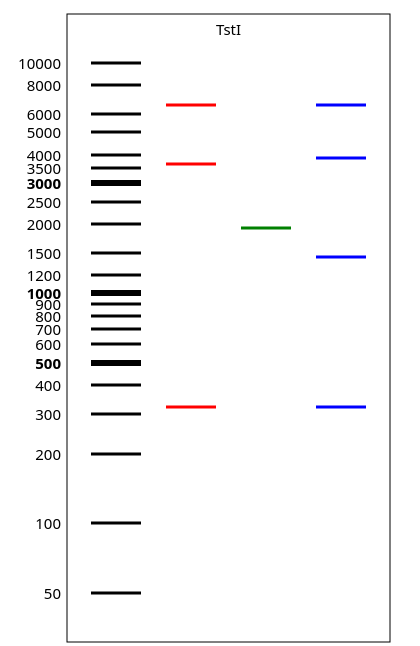
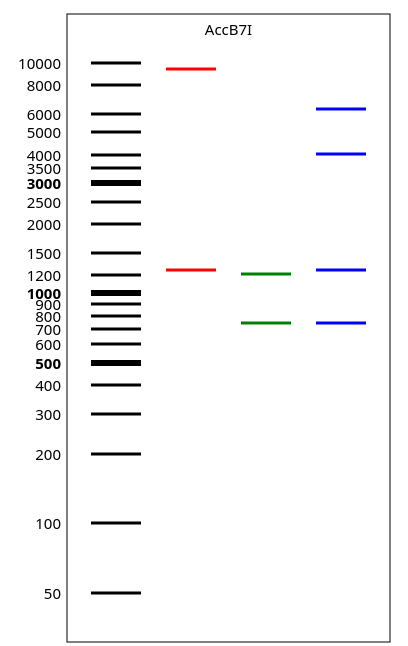
Use the first enzyme that the example sequences give with default settings as gel picture

diff --git a/index.html b/index.html
@@ -164,7 +164,7 @@
 		</ol>
 		<a class="reference internal image-reference" href="docs/images/Warning.png"><img alt="Submit your DiffDigest" src="docs/images/Warning.png" style="width: 800px;" /></a>
 		<ol class="arabic simple" start="6">
-			<li><p>Your results will be displayed as mock gels in cartoon style for each enzyme that produces fragments according to the settings. Below is a gel for the enzyme TstI, the sequences used are from Example 1, which can be loaded from the Load example buttons. The first lane contains a DNA ladder with black bands, which are annotated with their sizes in basepairs. The second lane contains the bands produced from sequence 1 in red; the third lane bands from sequence 2 in green; and the fourth lane bands from sequence 3 in blue. Note that the minimum fragment size that was used for the gel in the image below was 50 bp, however this TstI also produces a fragment that is smaller then 50 bp and thus is not displayed. If a sequence is circular that means not cut then it is displayed as it were cut.</p></li>
+			<li><p>Your results will be displayed as mock gels in cartoon style for each enzyme that produces fragments according to the settings. Below is a gel for the enzyme AccB7I, the sequences used are from the example that can be loaded from the Load example buttons with the standard settings. The first lane contains a DNA ladder with black bands, which are annotated with their sizes in basepairs. The second lane contains the bands produced from sequence 1 in red; the third lane bands from sequence 2 in green; and the fourth lane bands from sequence 3 in blue. AccB7I is the first enzyme retuned by DiffDigester for the given sequences.</p></li>
 		</ol>
 		<a class="reference internal image-reference" href="docs/images/GelPic.png"><img alt="An example of an output gel in cartoon style" src="docs/images/GelPic.png" /></a>
 
